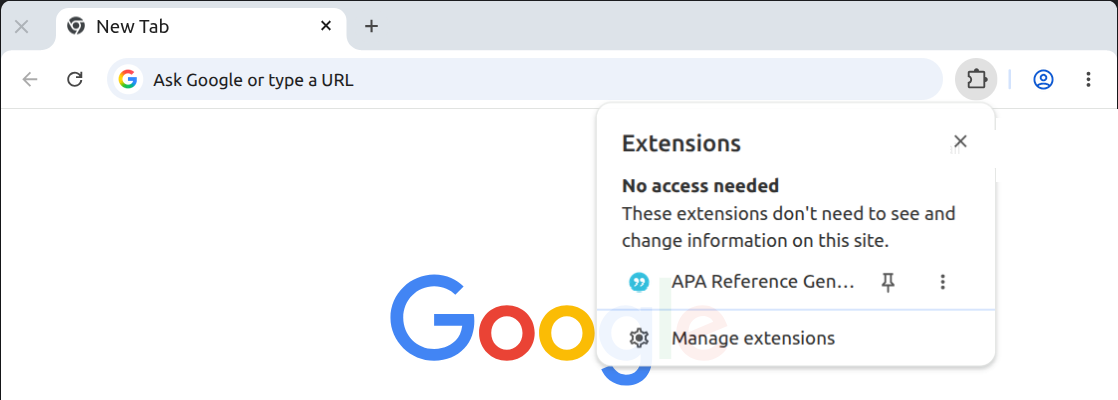
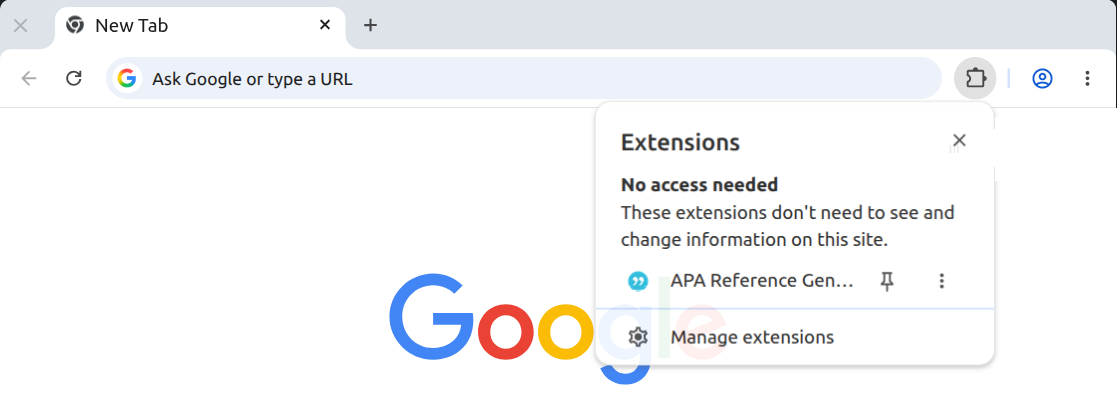
Drop the window border and show a real site in step 2
The captures carry a 1px dark window border along their top and left
edges, which read as a hard black line against the page; the crops now
start one pixel in.

Step 2 previously showed a New Tab page, which undercut the instruction
to open the extension on the site you want to cite. The tab title and
address bar now carry an invented article (example.com, a reserved
documentation domain, so it points at nothing real), both favicons are
swapped for the site's own icon, and the Gmail/Images shortcuts are
painted out. Text is drawn in Ubuntu, the font the captures were taken
with, and the host is inked darker than the path the way Chrome does it.

"website you need to cite" is set in the brand colour so the sentence
says where the extension is meant to be used.

diff --git a/index.html b/index.html
@@ -40,12 +40,12 @@
                 <div class="shot">
                     <picture>
                         <source media="(prefers-color-scheme: dark)" srcset="img/step1-dark.png">
-                        <img src="img/step1-light.png" width="1118" height="400"
+                        <img src="img/step1-light.png" width="1117" height="399"
                             alt="Chrome window with the Extensions menu open, showing APA Reference Generator and its pin button">
                     </picture>
 
                     <!-- puzzle piece -->
-                    <span class="ann ann--left" style="left: 87.4%; top: 19.8%">
+                    <span class="ann ann--left" style="left: 87.4%; top: 19.5%">
                         <i class="ann__ring"></i>
                         <b class="ann__num">1</b>
                         <svg class="ann__arrow" viewBox="0 0 64 44" aria-hidden="true">
@@ -69,18 +69,18 @@
             <!-- Step 2 -->
             <section class="step">
                 <p class="step__text">
-                    <b>2.</b> Open the website you need to cite, then click the extension <b class="ref">3</b>
+                    <b>2.</b> Open the <span class="accent">website you need to cite</span>, then click the extension <b class="ref">3</b>
                     to get the reference for that page.
                 </p>
 
                 <div class="shot">
                     <picture>
                         <source media="(prefers-color-scheme: dark)" srcset="img/step2-dark.png">
-                        <img src="img/step2-light.png" width="1118" height="240"
+                        <img src="img/step2-light.png" width="1117" height="239"
                             alt="Chrome window with the APA Reference Generator icon pinned to the toolbar">
                     </picture>
 
-                    <span class="ann ann--left" style="left: 83.2%; top: 32.9%">
+                    <span class="ann ann--left" style="left: 83.2%; top: 32.6%">
                         <i class="ann__ring"></i>
                         <b class="ann__num">3</b>
                         <svg class="ann__arrow" viewBox="0 0 64 44" aria-hidden="true">

diff --git a/welcome.css b/welcome.css
@@ -139,6 +139,12 @@ b {
     color: var(--text-primary);
 }
 
+/* The part of the sentence that says where to use the extension. */
+.accent {
+    color: var(--primary);
+    font-weight: 600;
+}
+
 /* Small inline marker that matches the numbers on the screenshots. */
 .ref {
     display: inline-flex;

diff --git a/tools/crop.py b/tools/crop.py
@@ -1,32 +1,120 @@
-from PIL import Image
+from PIL import Image, ImageDraw, ImageFont
 
 SRC = '..'
 OUT = '../img'
+FAVICON = 'site-favicon.png'
+FONT = '/usr/share/fonts/truetype/ubuntu/Ubuntu-R.ttf'
 
-# The "_small" captures are a whole browser window (1118x671). Keep the tab
-# strip, the toolbar and enough of the page that it reads as a browser.
-POPUP_BOX = (0, 0, 1118, 400)   # down to below the extensions dropdown
-BAR_BOX = (0, 0, 1118, 240)     # just the browser frame; no empty page below
+# The captures carry a 1px dark window border along the top and left edges;
+# start one pixel in so it does not show up as a black line on the page.
+POPUP_BOX = (1, 1, 1118, 400)   # down to below the extensions dropdown
+BAR_BOX = (1, 1, 1118, 240)     # just the browser frame; no empty page below
 
-# The dropdown card spans x 595..996. In the light capture it is frosted rather
-# than opaque, so the page's "Gmail"/"Images" links show through it; outside the
-# card a sliver of "…ages" and the apps grid stick out. Paint all of it over,
-# stepping around the card's close button at x 954..967.
-CARD_FILL = (860, 160)   # plain area inside the card
-PAGE_BG = (1060, 212)    # plain page just outside the card
+# --- step 1: paint out page content showing through / around the dropdown ----
+CARD_FILL = (860, 160)
+PAGE_BG = (1060, 212)
 
 POPUP_MASK = [
-    ((900, 130, 950, 168), CARD_FILL),    # "Gmail" bleeding through the card
-    ((974, 130, 996, 168), CARD_FILL),    # "Im…" bleeding through the card
-    ((996, 118, 1118, 182), PAGE_BG),     # "…ages" + apps grid outside the card
+    ((900, 130, 950, 168), CARD_FILL),
+    ((974, 130, 996, 168), CARD_FILL),
+    ((996, 118, 1118, 182), PAGE_BG),
 ]
 
+# --- step 2: dress the browser up as a page the reader would actually cite ---
+TAB_FAVICON = (68, 16, 88, 36)
+TAB_TITLE = (94, 12, 314, 40)
+OMNI_FAVICON = (115, 67, 142, 93)
+OMNI_TEXT = (149, 64, 890, 96)
+PAGE_LINKS = (890, 126, 1105, 175)
 
-def build(name, src, box, masks=()):
+TAB_BG = (250, 26)      # empty part of the active tab
+OMNI_BG = (600, 79)     # empty part of the address bar
+
+TITLE = 'Machine Learning Basics'
+URL_HOST = 'example.com'
+URL_PATH = '/articles/machine-learning-fundamentals'
+
+INK = {'light': (32, 33, 36), 'dark': (232, 234, 237)}
+MUTED = {'light': (95, 99, 104), 'dark': (154, 160, 166)}
+
+
+def fit_favicon(box):
+    """The supplied asset is a white disc with a glyph, sitting on a slab of
+    whatever UI it was cropped from. Isolate the disc and give it a circular
+    alpha mask so it drops onto any background cleanly."""
+    src = Image.open(FAVICON).convert('RGB')
+    w, h = src.size
+
+    dark = [(x, y) for y in range(h) for x in range(w)
+            if sum(src.getpixel((x, y))) < 300]
+    cx = (min(x for x, _ in dark) + max(x for x, _ in dark)) // 2
+    cy = (min(y for _, y in dark) + max(y for _, y in dark)) // 2
+
+    # Walk out from the centre until the white disc ends.
+    r = 0
+    while cx + r + 1 < w and min(src.getpixel((cx + r + 1, cy))) > 248:
+        r += 1
+
+    disc = src.crop((cx - r, cy - r, cx + r, cy + r)).convert('RGBA')
+    mask = Image.new('L', disc.size, 0)
+    ImageDraw.Draw(mask).ellipse((0, 0, disc.size[0] - 1, disc.size[1] - 1), fill=255)
+    disc.putalpha(mask)
+
+    side = min(box[2] - box[0], box[3] - box[1])
+    return disc.resize((side, side), Image.LANCZOS), side
+
+
+def centred(box, side):
+    return (box[0] + (box[2] - box[0] - side) // 2,
+            box[1] + (box[3] - box[1] - side) // 2)
+
+
+def dress_browser(im, theme):
+    draw = ImageDraw.Draw(im)
+    tab_bg = im.getpixel(TAB_BG)
+    omni_bg = im.getpixel(OMNI_BG)
+    page_bg = im.getpixel(PAGE_BG)
+
+    # Clear what we are replacing.
+    draw.rectangle(TAB_TITLE, fill=tab_bg)
+    draw.rectangle(OMNI_TEXT, fill=omni_bg)
+    draw.rectangle(PAGE_LINKS, fill=page_bg)
+
+    # Swap both favicons for the cited site's icon. Clear a slightly larger
+    # area than the disc so no edge of the original logo survives.
+    for box, bg in ((TAB_FAVICON, tab_bg), (OMNI_FAVICON, omni_bg)):
+        draw.rectangle((box[0] - 4, box[1] - 3, box[2] + 3, box[3] + 3), fill=bg)
+        icon, side = fit_favicon(box)
+        im.paste(icon, centred(box, side), icon)
+
+    tab_font = ImageFont.truetype(FONT, 15)
+    url_font = ImageFont.truetype(FONT, 16)
+
+    # Tab title, truncated the way Chrome would if it overflows.
+    title, limit = TITLE, TAB_TITLE[2] - TAB_TITLE[0] - 6
+    while draw.textlength(title, font=tab_font) > limit and len(title) > 4:
+        title = title[:-2]
+    if title != TITLE:
+        title += '…'
+    draw.text((TAB_TITLE[0] + 2, 26), title, font=tab_font, fill=INK[theme], anchor='lm')
+
+    # URL with the host emphasised, as Chrome renders it.
+    x = OMNI_TEXT[0] + 3
+    draw.text((x, 80), URL_HOST, font=url_font, fill=INK[theme], anchor='lm')
+    x += draw.textlength(URL_HOST, font=url_font)
+    draw.text((x, 80), URL_PATH, font=url_font, fill=MUTED[theme], anchor='lm')
+
+    return im
+
+
+def build(name, src, box, masks=(), dress=None):
     im = Image.open(f'{SRC}/{src}').convert('RGB')
 
     for region, sample in masks:
         im.paste(im.getpixel(sample), region)
+
+    if dress:
+        im = dress_browser(im, dress)
 
     im.crop(box).save(f'{OUT}/{name}.png')
     print(f'{name}.png  {box[2]-box[0]}x{box[3]-box[1]}')
@@ -34,8 +122,8 @@ def build(name, src, box, masks=()):
 
 build('step1-light', 'light_popup_small.png', POPUP_BOX, POPUP_MASK)
 build('step1-dark', 'dark_popup_small.png', POPUP_BOX, POPUP_MASK)
-build('step2-light', 'light_small.png', BAR_BOX)
-build('step2-dark', 'dark_small.png', BAR_BOX)
+build('step2-light', 'light_small.png', BAR_BOX, dress='light')
+build('step2-dark', 'dark_small.png', BAR_BOX, dress='dark')
 
 for label, x, y, box in [
     ('puzzle  (step1)', 977, 79, POPUP_BOX),
